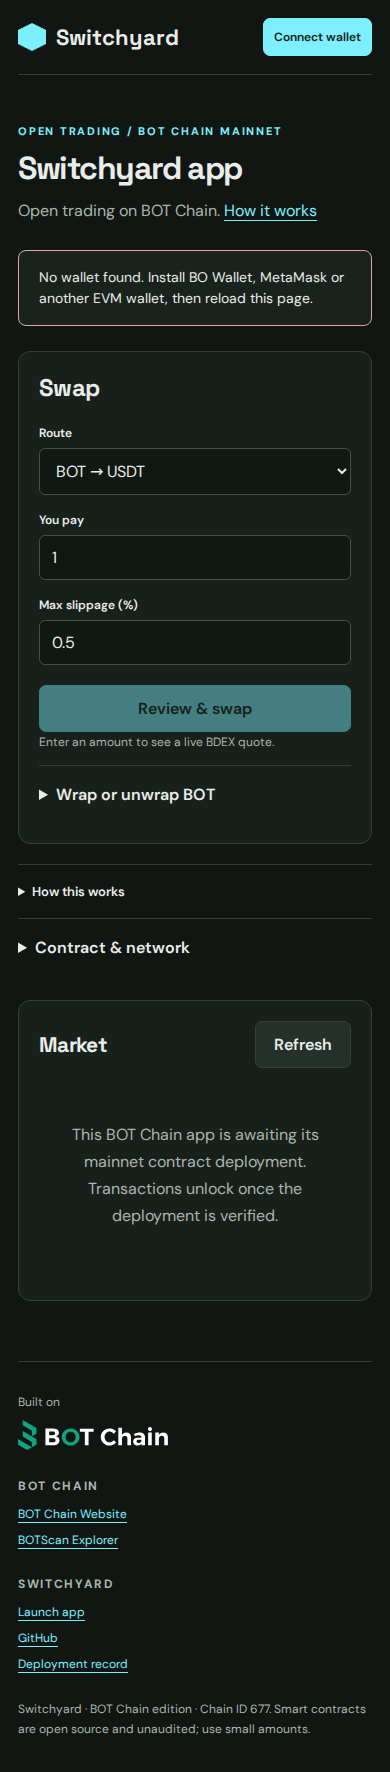
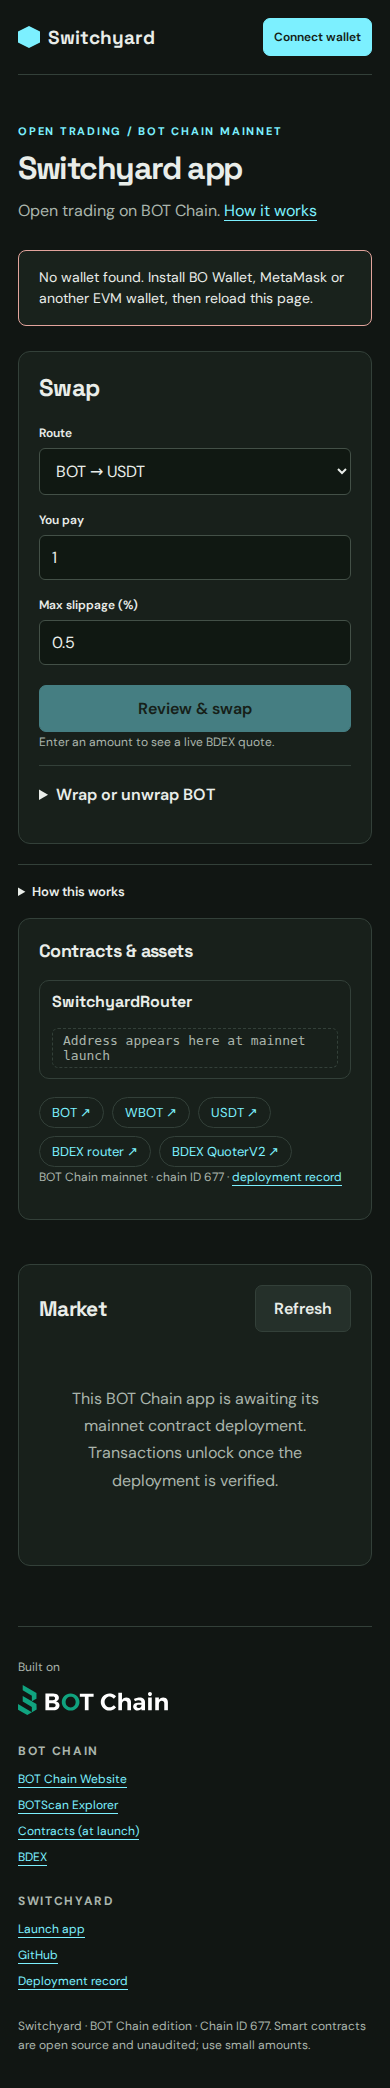
Move sites to Vercel; BOT Chain branding and linked contracts

diff --git a/web/landing.html b/web/landing.html
@@ -1,1 +1,1 @@
-<!doctype html><html lang="en"><head><meta charset="UTF-8"><meta name="viewport" content="width=device-width,initial-scale=1"><meta name="theme-color" content="#111613"><title>__NAME__ · BOT Chain</title><meta name="description" content="__DESCRIPTION__"><meta property="og:title" content="__NAME__ · BOT Chain"><meta property="og:description" content="__DESCRIPTION__"><meta property="og:type" content="website"><meta name="twitter:card" content="summary"><link rel="icon" href="/icon.svg" type="image/svg+xml"><link rel="stylesheet" href="/style.css"></head><body><a class="skip" href="#main">Skip to content</a><div class="shell"><header><a class="brand" href="/"><span class="mark" aria-hidden="true"></span>__NAME__</a><nav class="site-nav" aria-label="Page"><a href="#how">How it works</a><a href="#features">Features</a><a href="#faq">FAQ</a><a href="__REPO_URL__" target="_blank" rel="noopener noreferrer">GitHub</a></nav><div class="header-actions"><a class="button primary" href="/app/">Launch app</a></div></header><main id="main"><section class="hero"><div><span class="eyebrow">__EYEBROW__ / BOT CHAIN</span><h1>__LINE__</h1><p>__DESCRIPTION__</p><div class="cta-row"><a class="button primary" href="/app/">Launch app</a><a class="button" href="__REPO_URL__" target="_blank" rel="noopener noreferrer">View source</a></div></div><div class="hero-art" aria-hidden="true"><div class="art-grid"><span>01</span><span>02</span><span>03</span><span>04</span><span>__SYMBOL__</span><span>06</span><span>07</span><span>08</span><span>09</span></div></div></section>__LAUNCH__<section id="how" class="band"><span class="eyebrow">How it works</span><h2>Three steps, all onchain</h2><ol class="steps">__STEPS__</ol></section><section id="features" class="band"><span class="eyebrow">Features</span><h2>Why __NAME__</h2><div class="features">__FEATURES__</div></section><section id="onchain" class="band"><span class="eyebrow">Onchain</span><h2>Verify everything</h2><dl class="facts">__FACTS__</dl></section><section id="faq" class="band"><span class="eyebrow">FAQ</span><h2>Questions</h2><div class="faq">__FAQ__</div></section><section class="cta-band"><h2>__LINE__</h2><p>Connect BO Wallet, MetaMask or any EVM wallet on BOT Chain mainnet.</p><a class="button primary" href="/app/">Launch __NAME__</a></section></main>__FOOTER__</div></body></html>
+<!doctype html><html lang="en"><head><meta charset="UTF-8"><meta name="viewport" content="width=device-width,initial-scale=1"><meta name="theme-color" content="#111613"><title>__NAME__ · BOT Chain</title><meta name="description" content="__DESCRIPTION__"><meta property="og:title" content="__NAME__ · BOT Chain"><meta property="og:description" content="__DESCRIPTION__"><meta property="og:type" content="website"><meta name="twitter:card" content="summary"><link rel="icon" href="/icon.svg" type="image/svg+xml"><link rel="stylesheet" href="/style.css"></head><body><a class="skip" href="#main">Skip to content</a><div class="shell"><header><a class="brand" href="/"><span class="mark" aria-hidden="true"></span>__NAME__</a><nav class="site-nav" aria-label="Page"><a href="#how">How it works</a><a href="#features">Features</a><a href="#contracts">Contracts</a><a href="#faq">FAQ</a><a href="__REPO_URL__" target="_blank" rel="noopener noreferrer">GitHub</a></nav><div class="header-actions"><a class="chain-badge" href="https://www.botchain.ai/" target="_blank" rel="noopener noreferrer" aria-label="Built on BOT Chain"><span>Built on</span><img src="/botchain.svg" alt="BOT Chain" width="96" height="19"></a><a class="button primary" href="/app/">Launch app</a></div></header><main id="main"><section class="hero"><div><span class="eyebrow">__EYEBROW__ / BOT CHAIN</span><h1>__LINE__</h1><p>__DESCRIPTION__</p><div class="cta-row"><a class="button primary" href="/app/">Launch app</a><a class="button" href="__REPO_URL__" target="_blank" rel="noopener noreferrer">View source</a></div></div><div class="hero-art" aria-hidden="true"><div class="art-grid"><span>01</span><span>02</span><span>03</span><span>04</span><span>__SYMBOL__</span><span>06</span><span>07</span><span>08</span><span>09</span></div></div></section>__LAUNCH__<section id="how" class="band"><span class="eyebrow">How it works</span><h2>Three steps, all onchain</h2><ol class="steps">__STEPS__</ol></section><section id="features" class="band"><span class="eyebrow">Features</span><h2>Why __NAME__</h2><div class="features">__FEATURES__</div></section><section id="onchain" class="band"><span class="eyebrow">Onchain</span><h2>Verify everything</h2><dl class="facts">__FACTS__</dl></section><section id="contracts" class="band"><span class="eyebrow">Contracts &amp; BOT Chain assets</span><h2>Every address, on BOTScan</h2><p>Each link opens the contract or token on BOTScan, the BOT Chain explorer.</p><div class="contracts">__CONTRACTS__</div><h3 class="assets-title">BOT Chain assets used</h3><ul class="assets">__ASSETS__</ul></section><section id="faq" class="band"><span class="eyebrow">FAQ</span><h2>Questions</h2><div class="faq">__FAQ__</div></section><section class="cta-band"><h2>__LINE__</h2><p>Connect BO Wallet, MetaMask or any EVM wallet on BOT Chain mainnet.</p><a class="button primary" href="/app/">Launch __NAME__</a></section></main>__FOOTER__</div></body></html>

diff --git a/web/products/switchyard.js b/web/products/switchyard.js
@@ -1,5 +1,5 @@
 import {parseAbi} from 'viem';
-import {$,config,abis,state,client,esc,fmt,link,field,form,amount,read,tx,approve,wallet,tokenAbi,wrapForms,chainTime,start} from '../core.js';
+import {$,config,abis,state,client,esc,fmt,link,field,form,amount,read,tx,approve,wallet,tokenAbi,wrapForms,chainTime,asset,start} from '../core.js';
 const poolFee=config.infrastructure.fee,decimals={BOT:18,WBOT:18,USDT:6};let feeBps=50;
 const routes={'BOT-USDT':{label:'BOT → USDT',in:'BOT',out:'USDT'},'USDT-BOT':{label:'USDT → BOT',in:'USDT',out:'BOT'},'WBOT-USDT':{label:'WBOT → USDT',in:'WBOT',out:'USDT'},'USDT-WBOT':{label:'USDT → WBOT',in:'USDT',out:'WBOT'}};
 const tokenAddress=t=>t==='USDT'?config.infrastructure.USDT:config.infrastructure.WBOT;
@@ -27,12 +27,12 @@ function controls(){
 }
 async function render(){
  const [botPrice,usdtPrice]=await Promise.all([quote('BOT-USDT','1'),quote('USDT-BOT','1')]);
- let html=`<div class="row"><span>1 BOT</span><strong>≈ ${trim(fmt(botPrice.out,6))} USDT</strong></div><div class="row"><span>1 USDT</span><strong>≈ ${trim(fmt(usdtPrice.out))} BOT</strong></div><div class="row"><span>Switchyard fee</span><strong>${(feeBps/100).toFixed(2)}%</strong></div><p class="tiny">Quotes include the Switchyard fee and BDEX's 0.3% pool fee.</p>`;
- if(state.account){const [bot,wb,usd]=await Promise.all([client.getBalance({address:state.account}),...['WBOT','USDT'].map(t=>client.readContract({address:tokenAddress(t),abi:tokenAbi,functionName:'balanceOf',args:[state.account]}))]);html+=`<h3>Your wallet</h3><div class="row"><span>BOT</span><strong>${trim(fmt(bot))}</strong></div><div class="row"><span>WBOT</span><strong>${trim(fmt(wb))}</strong></div><div class="row"><span>USDT</span><strong>${trim(fmt(usd,6))}</strong></div>`;}
+ let html=`<div class="row"><span>1 ${asset('BOT')}</span><strong>≈ ${trim(fmt(botPrice.out,6))} ${asset('USDT')}</strong></div><div class="row"><span>1 ${asset('USDT')}</span><strong>≈ ${trim(fmt(usdtPrice.out))} ${asset('BOT')}</strong></div><div class="row"><span>Switchyard fee</span><strong>${(feeBps/100).toFixed(2)}%</strong></div><p class="tiny">Quotes include the Switchyard fee and the <a href="https://scan.botchain.ai/address/${config.infrastructure.router}" target="_blank" rel="noopener noreferrer">BDEX</a> 0.3% pool fee.</p>`;
+ if(state.account){const [bot,wb,usd]=await Promise.all([client.getBalance({address:state.account}),...['WBOT','USDT'].map(t=>client.readContract({address:tokenAddress(t),abi:tokenAbi,functionName:'balanceOf',args:[state.account]}))]);html+=`<h3>Your wallet</h3><div class="row"><span>${asset('BOT')}</span><strong>${trim(fmt(bot))}</strong></div><div class="row"><span>${asset('WBOT')}</span><strong>${trim(fmt(wb))}</strong></div><div class="row"><span>${asset('USDT')}</span><strong>${trim(fmt(usd,6))}</strong></div>`;}
  html+='<h3>Recent Switchyard swaps</h3>';
  try{const latest=await client.getBlockNumber();const logs=(await client.getContractEvents({address:config.contracts.SwitchyardRouter,abi:abis.SwitchyardRouter,eventName:'Swapped',fromBlock:latest>5000n?latest-5000n:0n,toBlock:latest})).slice(-15).reverse();
   const sym=a=>/^0x0{40}$/i.test(a)?'BOT':a.toLowerCase()===config.infrastructure.USDT.toLowerCase()?'USDT':'WBOT';
-  html+=logs.map(l=>{const a=l.args,i=sym(a.tokenIn),o=sym(a.tokenOut);return `<div class="row"><span>${link(a.sender)} · <a href="https://scan.botchain.ai/tx/${esc(l.transactionHash)}" target="_blank" rel="noopener noreferrer">tx</a></span><strong>${trim(fmt(a.amountIn,decimals[i]))} ${i} → ${trim(fmt(a.amountOut,decimals[o]))} ${o}</strong></div>`;}).join('')||'<p class="tiny">No swaps in the last 5,000 blocks.</p>';}
+  html+=logs.map(l=>{const a=l.args,i=sym(a.tokenIn),o=sym(a.tokenOut);return `<div class="row"><span>${link(a.sender)} · <a href="https://scan.botchain.ai/tx/${esc(l.transactionHash)}" target="_blank" rel="noopener noreferrer">tx</a></span><strong>${trim(fmt(a.amountIn,decimals[i]))} ${asset(i)} → ${trim(fmt(a.amountOut,decimals[o]))} ${asset(o)}</strong></div>`;}).join('')||'<p class="tiny">No swaps in the last 5,000 blocks.</p>';}
  catch{html+='<p class="tiny">Swap history is unavailable from this RPC right now.</p>';}
  return html;
 }

diff --git a/web/app.html b/web/app.html
@@ -1,1 +1,1 @@
-<!doctype html><html lang="en"><head><meta charset="UTF-8"><meta name="viewport" content="width=device-width,initial-scale=1"><meta name="theme-color" content="#111613"><title>__NAME__ App · BOT Chain</title><meta name="description" content="__DESCRIPTION__"><link rel="icon" href="/icon.svg" type="image/svg+xml"><link rel="stylesheet" href="/style.css"></head><body><a class="skip" href="#main">Skip to app</a><div class="shell"><header><a class="brand" href="/"><span class="mark" aria-hidden="true"></span>__NAME__</a><div class="header-actions"><span class="network">BOT Chain · 677</span><button id="add-chain" type="button">Add BOT Chain</button><button id="connect" type="button" class="primary">Connect wallet</button></div></header><main id="main"><section class="app-intro"><span class="eyebrow">__EYEBROW__ / BOT CHAIN MAINNET</span><h1>__NAME__ app</h1><p>__LINE__ <a href="/">How it works</a></p></section><div id="status" class="status" role="status" aria-live="polite">Checking deployment…</div><div id="workspace" class="layout"><aside><div id="controls" class="panel"></div><details class="rules"><summary>How this works</summary><div id="rules"></div></details><details><summary>Contract &amp; network</summary><div id="contract" class="record"></div></details></aside><section class="panel"><div class="section-head"><h2 id="list-title">Activity</h2><button id="refresh" type="button">Refresh</button></div><div id="records" aria-live="polite"><p class="empty">Loading onchain data…</p></div></section></div></main>__FOOTER__</div><dialog id="wallets" aria-labelledby="wallets-title"><form method="dialog"><h2 id="wallets-title">Choose a wallet</h2><p class="tiny">Any EVM wallet works on BOT Chain, including BO Wallet and MetaMask.</p><div id="wallet-list" class="wallet-list"></div><button value="cancel">Cancel</button></form></dialog><script type="module" src="/app.js"></script></body></html>
+<!doctype html><html lang="en"><head><meta charset="UTF-8"><meta name="viewport" content="width=device-width,initial-scale=1"><meta name="theme-color" content="#111613"><title>__NAME__ App · BOT Chain</title><meta name="description" content="__DESCRIPTION__"><link rel="icon" href="/icon.svg" type="image/svg+xml"><link rel="stylesheet" href="/style.css"></head><body><a class="skip" href="#main">Skip to app</a><div class="shell"><header><a class="brand" href="/"><span class="mark" aria-hidden="true"></span>__NAME__</a><div class="header-actions"><a class="chain-badge compact" href="https://www.botchain.ai/" target="_blank" rel="noopener noreferrer" aria-label="Built on BOT Chain"><span>Built on</span><img src="/botchain.svg" alt="BOT Chain" width="96" height="19"></a><button id="add-chain" type="button">Add BOT Chain</button><button id="connect" type="button" class="primary">Connect wallet</button></div></header><main id="main"><section class="app-intro"><span class="eyebrow">__EYEBROW__ / BOT CHAIN MAINNET</span><h1>__NAME__ app</h1><p>__LINE__ <a href="/">How it works</a></p></section><div id="status" class="status" role="status" aria-live="polite">Checking deployment…</div><div id="workspace" class="layout"><aside><div id="controls" class="panel"></div><details class="rules"><summary>How this works</summary><div id="rules"></div></details><div class="panel contracts-panel"><h2>Contracts &amp; assets</h2><div class="contracts">__CONTRACTS__</div><ul class="assets">__ASSETS__</ul><p class="tiny">BOT Chain mainnet · chain ID 677 · <a href="/deployment.json">deployment record</a></p></div></aside><section class="panel"><div class="section-head"><h2 id="list-title">Activity</h2><button id="refresh" type="button">Refresh</button></div><div id="records" aria-live="polite"><p class="empty">Loading onchain data…</p></div></section></div></main>__FOOTER__</div><dialog id="wallets" aria-labelledby="wallets-title"><form method="dialog"><h2 id="wallets-title">Choose a wallet</h2><p class="tiny">Any EVM wallet works on BOT Chain, including BO Wallet and MetaMask.</p><div id="wallet-list" class="wallet-list"></div><button value="cancel">Cancel</button></form></dialog><script type="module" src="/app.js"></script></body></html>

diff --git a/web/core.js b/web/core.js
@@ -72,6 +72,8 @@ export const tx=(name,fn,args=[],value=0n,addr=config.contracts[name])=>transact
 export async function approve(token,spender,n){await wallet();const allowed=await client.readContract({address:token,abi:tokenAbi,functionName:'allowance',args:[state.account,spender]});if(allowed<n){if(allowed>0n)await transact(tokenAbi,token,'approve',[spender,0n]);await transact(tokenAbi,token,'approve',[spender,n]);}}
 export async function approveNFT(token,id,spender){await wallet();if((await client.readContract({address:token,abi:tokenAbi,functionName:'getApproved',args:[id]})).toLowerCase()!==spender.toLowerCase())await transact(nftAbi,token,'approve',[spender,id]);}
 export const wrapForms=()=>details('Wrap or unwrap BOT',form('wrap',field('wrap-amount','BOT to wrap','0.01','text','inputmode="decimal"'),'Wrap BOT',async f=>transact(tokenAbi,config.infrastructure.WBOT,'deposit',[],amount(f['wrap-amount'])))+form('unwrap',field('unwrap-amount','WBOT to unwrap','0.01','text','inputmode="decimal"'),'Unwrap WBOT',async f=>transact(tokenAbi,config.infrastructure.WBOT,'withdraw',[amount(f['unwrap-amount'])])));
+/** A BOT Chain asset symbol, linked to its BOTScan token page (BOT links to BOT Chain). Unknown symbols stay plain text. */
+export const asset=(symbol,address)=>{const k=String(symbol).toUpperCase(),a=config.assetLinks?.[k];const href=a?.href||(address?`https://scan.botchain.ai/token/${address}`:null);return href?`<a class="asset" href="${esc(href)}" target="_blank" rel="noopener noreferrer" title="${esc(a?.name||symbol)} on BOT Chain">${esc(symbol)}</a>`:esc(symbol);};
 export const mine=a=>!!state.account&&a?.toLowerCase()===state.account.toLowerCase();
 
 let product;
@@ -95,6 +97,5 @@ export function start(p){
  document.addEventListener('submit',e=>{if(!e.target.dataset.form)return;e.preventDefault();const f=e.target;run(()=>actions.get(f.dataset.form)(Object.fromEntries(new FormData(f))));});
  $('connect').onclick=()=>run(connect);$('add-chain').onclick=()=>run(addChain);$('refresh').onclick=()=>run(state.verified?refresh:boot);
  product.controls();
- $('contract').innerHTML=`<p>BOT Chain mainnet · Chain ID 677</p><p>${config.contracts[config.contract]?link(config.contracts[config.contract],'View app contract on BOTScan'):'Contract deployment pending'}</p><p><a href="/deployment.json">Public deployment record</a></p>`;
  boot();
 }

diff --git a/web/style.css b/web/style.css
@@ -50,3 +50,21 @@ dialog form>button{width:100%}
 .weights legend{font-size:12px;font-weight:600;padding:0 6px}
 .tiny.error{color:#e2a49c}
 .holdings{margin:6px 0 10px}
+
+.chain-badge{display:inline-flex;align-items:center;gap:8px;text-decoration:none;color:var(--muted);font-size:12px;border:1px solid var(--line);border-radius:999px;padding:7px 12px;background:#18201b}
+.chain-badge:hover{border-color:#10A37F}
+.chain-badge img{height:15px;width:auto}
+.contracts{display:grid;gap:10px;margin:18px 0}
+.contract{display:flex;justify-content:space-between;align-items:center;gap:16px;flex-wrap:wrap;border:1px solid var(--line);border-radius:10px;padding:14px 18px;background:#18201b}
+.contract strong{font-family:'Space Grotesk',sans-serif}
+.contract a,.contract .pending{font-family:ui-monospace,SFMono-Regular,Menlo,monospace;font-size:13px;overflow-wrap:anywhere}
+.contract .pending{color:var(--muted);border:1px dashed var(--line);border-radius:6px;padding:4px 10px}
+.assets-title{margin-top:26px}
+.assets{list-style:none;padding:0;margin:10px 0 0;display:flex;flex-wrap:wrap;gap:8px}
+.assets a{display:inline-flex;gap:6px;align-items:center;border:1px solid var(--line);border-radius:999px;padding:6px 12px;font-size:13px;text-decoration:none}
+.assets a:hover{border-color:var(--accent)}
+.contracts-panel h2{font-size:18px;margin-bottom:6px}
+.contracts-panel .contract{padding:10px 12px}
+a.asset{text-decoration-thickness:1px}
+@media(max-width:760px){.chain-badge span{display:none}.chain-badge.compact{display:none}}
+@media(max-width:480px){header{gap:10px}.header-actions{gap:6px}.chain-badge{padding:6px 8px}.chain-badge img{height:12px}.header-actions a.button{padding:9px 11px;font-size:13px}.brand{font-size:19px;gap:8px}.mark{width:22px;height:22px}}

diff --git a/README.md b/README.md
@@ -4,7 +4,7 @@
 
 **Status:** contracts are tested on a BOT Chain mainnet fork; the mainnet deployment is pending.
 
-- Website and app: https://switchyard-botchain.davidopuene8.workers.dev (app at [`/app/`](https://switchyard-botchain.davidopuene8.workers.dev/app/))
+- Website and app: https://switchyardbot.vercel.app (app at [`/app/`](https://switchyardbot.vercel.app/app/))
 - Network: BOT Chain mainnet, chain ID 677 · [BOT Chain](https://www.botchain.ai/) · [BOTScan](https://scan.botchain.ai/)
 
 ![Switchyard landing page](docs/switchyard-landing-1280.png)
@@ -61,7 +61,7 @@ node scripts/deploy.mjs && node scripts/fork-check.mjs
 
 ### Deploy
 
-`scripts/deploy.mjs` reads the deployer key from `BOT_SIGNER_FILE` (default `~/.config/botchain-wave1/deployer.env`, never committed), refuses to broadcast on mainnet without `BOT_MAX_GAS_BOT`, and journals every transaction to `deployments/mainnet.json` so it can resume. `python3 scripts/publish.py` publishes the site with a one-hour, Workers-only Cloudflare token and revokes it afterwards.
+`scripts/deploy.mjs` reads the deployer key from `BOT_SIGNER_FILE` (default `~/.config/botchain-wave1/deployer.env`, never committed), refuses to broadcast on mainnet without `BOT_MAX_GAS_BOT`, and journals every transaction to `deployments/mainnet.json` so it can resume. `npm run publish` deploys the built site to Vercel as a static production deployment.
 
 ## License
 
